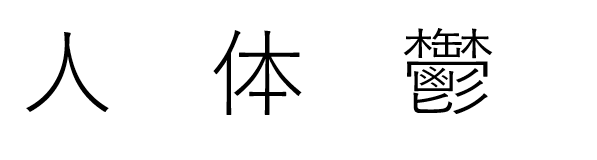
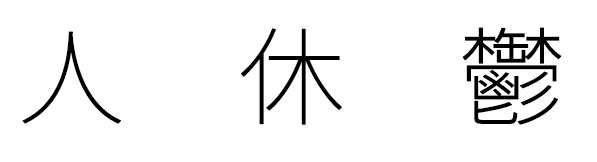
final_corrections

diff --git a/js/hanzi.js b/js/hanzi.js
@@ -10,9 +10,14 @@ function initHanziPie(){
       chartValue: 7,
       color: '#4f46e5',
       samples: [
-        '山 — மலை',
-        '人 — மனிதன்',
-        '木 — மரம்'
+        '山 - மலை',
+'川 - நதி / ஆறு',
+'木 - மரம்',
+'日 - சூரியன் / நாள்',
+'月 - சந்திரன் / மாதம்',
+'人 - மனிதன் / நபர்',
+'口 - வாய் / முகப்பு',
+'犬 - நாய்'
       ],
       detail: 'உருவக் குறியீடு'
     },
@@ -23,9 +28,14 @@ function initHanziPie(){
       chartValue: 4,
       color: '#10b981',
       samples: [
-        '上 — மேலே',
-        '下 — கீழே',
-        '中 — நடு'
+        '上 - மேல்',
+'下 - கீழ்',
+'一 - ஒன்று',
+'二 - இரண்டு',
+'三 - மூன்று',
+'中 - நடு / மையம்',
+'本 - வேர் / புத்தகம்',
+'末 - இறுதி / முடிவு'
       ],
       detail: 'சிந்தனைக் குறியீடு'
     },
@@ -36,9 +46,14 @@ function initHanziPie(){
       chartValue: 9,
       color: '#f59e0b',
       samples: [
-        '日 + 月 = 明',
-        '木 + 木 + 木 = 森',
-        '人 + 言 = 信'
+        '明 - வெளிச்சம்  (சூரியன் + நிலவு)',
+'森 - காடு (மரம் + மரம் + மரம்)',
+'林 - சிறுகாடு (மரம் + மரம்)',
+'炎 - தீப்பொறி  (தீ + தீ)',
+'男 - ஆண் (வயல் + ஆற்றல்)',
+'休 - ஓய்வு மனிதன் + மரம்)',
+'信 - நம்பிக்கை / விசுவாசம் (மனிதன் + சொல்)',
+'好 - விருப்பம் (பெண் + குழந்தை)'
       ],
       detail: 'கூட்டுக் குறியீடு'
     },
@@ -49,9 +64,14 @@ function initHanziPie(){
       chartValue: 76,
       color: '#ef4444',
       samples: [
-        '木 + 交 = 校 (கோ-ko)',
-        '言 + 吾 = 語 (கோ-go)',
-        '氵 + 可 = 河 (க)'
+        '河 - நதி (நீர் + உச்சரிப்பை சுட்டும் கூறு)',
+'校 - பள்ளி (மரம் + உச்சரிப்பை சுட்டும் கூறு)',
+'語 - மொழி/சொல் (பேச்சு + உச்சரிப்பை சுட்டும்)',
+'清 - சுத்தம்/தெளிவு (நீர் + உச்சரிப்பை சுட்டும் கூறு)',
+'海 - கடல் (நீர் + உச்சரிப்பை சுட்டும் கூறு)',
+'橋 - பாலம் (மரம் + உச்சரிப்பை சுட்டும் கூறு)',
+'銀 - வெள்ளி (உலோகம் + உச்சரிப்பை சுட்டும் கூறு)',
+'電 - மின்னல் (மழை + உச்சரிப்பை சுட்டும் கூறு)'
       ],
       detail: 'உச்சரிப்பு-பொருள் குறியீடு'
     },
@@ -62,9 +82,12 @@ function initHanziPie(){
       chartValue: 2,
       color: '#8b5cf6',
       samples: [
-        '楽 — இசை → மகிழ்ச்சி',
-        '長 — நீளம் → தலைவன்',
-        '自 — மூக்கு → தன்/தான்'
+        '楽 - (பொருள் திரிபு: இசை → மகிழ்ச்சி)',
+'長 - (பொருள் திரிபு: நீளம் → தலைவன்)',
+'考 - (பொருள் திரிபு: முதுமை → சிந்தி)',
+'悪 - (பொருள் திரிபு: கெடு → தீமை)',
+'労 - (பொருள் திரிபு: களைப்பு → முயற்சி)',
+'自 - (பொருள் திரிபு: மூக்கு → சுயம்)'
       ],
       detail: 'பொருள் திரிந்த குறியீடு'
     },
@@ -75,9 +98,12 @@ function initHanziPie(){
       chartValue: 2,
       color: '#06b6d4',
       samples: [
-        '来 — தானியம் → வரும்/வருகிற',
-        '我 — ஆயுதம் → நான்/தன்',
-        '七 — வெட்டு → ஏழு'
+        '我 - (உச்சரிப்பு: வ; பொருள்: ஆயுதம் → என்னை)',
+'来 - (உச்சரிப்பு: ரை; பொருள்: தானியம் → வருதல்)',
+'七 - (உச்சரிப்பு: ஷிச்சி; பொருள்: வெட்டு → ஏழு)',
+'豆 - (உச்சரிப்பு: தோ; பொருள்: பாத்திரம் → பயறு)',
+'東 - (உச்சரிப்பு: தோ; பொருள்: மூட்டை → கிழக்கு) ',
+'求 - (உச்சரிப்பு: வ; பொருள்: தோலாடை → தேடு)'
       ],
       detail: 'ஒலிக்கடன் குறியீடு'
     }

diff --git a/pages/hanzi.html b/pages/hanzi.html
@@ -78,7 +78,7 @@
               <p>ஒரு கான்ஜியை எழுதப்பயன்படும் கோடுகளை கீறல்கள் (strokes) எனலாம். இந்த கீறல்கள் அல்லது கோடுகள் கொண்டு கான்ஜியை எழுதுகையில் நாம் ஒரு ஒழுங்கை கடைபிடிக்கவேண்டும் இந்த கோட்டிற்கு பிறகுதான் இந்த கோடு வரும் எனும் புரிதல் இருக்க வேண்டும். பெரும்பாலான கான்ஜிக்கள் 8 கக்கும் மேற்பட்ட கீறல்கள்/கோடுகளைக் கொண்டவை, எனவே நினைவில் கொள்வது சற்று சீரமம்தான் எனினும் “முயற்சி மெய்வருத்த கூலி தரும்”.</p>
 
               <div style="text-align: center; margin:12px 0;">
-                <img src="../assets/doc/denki.gif" alt="hanzi radicals" draggable="false" style="max-width:100%;height:auto;" /><img src="../assets/doc/denki1.png" alt="hanzi radicals" draggable="false" style="max-width:100%;height:auto;" />
+                <img src="../assets/doc/stroke_vs_radicals.gif" alt="hanzi radicals" draggable="false" style="max-width:50%;height:auto;" />
               </div>
 
               <p>மறுபுறம் சிக்கலான கான்ஜிக்களில் இருக்கும் கான்ஜி அல்லது அதன் சுருக்கப்பட்ட வடிவங்களை கூறுகள் (Radicals) அல்லது உருபுகள் (Compunds) என்று சொல்லலாம். என்றாலும் யப்பானியர்கள் இவ்வாறான பல உருபுகள் கொண்ட கான்ஜியிலிருந்து ஒரு உருபை தேர்ந்தெடுத்து அதை கூறுகள் என்று வகைப்படுத்தியுள்ளனர். இது அகராதிகளில் கான்ஜிக்களை வரிசைப்படுத்த பயன்படுகிறது.</p>
@@ -162,22 +162,22 @@
                   <tr>
                     <td style="border:1px solid #ddd;padding:8px;">へん (இடப் பகுதி)</td>
                     <td style="border:1px solid #ddd;padding:8px;"><img src="../assets/doc/radical1-hen.png" alt="radical1-hen" draggable="false" style="display:block;" /></td>
-                    <td style="border:1px solid #ddd;padding:8px;">氵(水) in 海, 扌(手) in 指, 訁(言) in 記</td>
+                    <td style="border:1px solid #ddd;padding:8px;">海-ல் உள்ள 氵(水); 指-ல் உள்ள 扌(手); 記-ல் உள்ள 訁(言)</td>
                   </tr>
                   <tr>
                     <td style="border:1px solid #ddd;padding:8px;">つくり (வலப் பகுதி)</td>
                     <td style="border:1px solid #ddd;padding:8px;"><img src="../assets/doc/radical2-tsukuri.png" alt="radical2-tsukuri" draggable="false" style="display:block;" /></td>
-                    <td style="border:1px solid #ddd;padding:8px;">刂(刀) in 利, 力 in 助, 欠 in 歌</td>
+                    <td style="border:1px solid #ddd;padding:8px;">利-ல் உள்ள 刂(刀); 助-ல் உள்ள 力; 歌-ல் உள்ள 欠</td>
                   </tr>
                   <tr>
                     <td style="border:1px solid #ddd;padding:8px;">かんむり (மேல்பகுதி)</td>
                     <td style="border:1px solid #ddd;padding:8px;"><img src="../assets/doc/radical3-kanmuri.png" alt="radical3-kanmuri" draggable="false" style="display:block;" /></td>
-                    <td style="border:1px solid #ddd;padding:8px;">艹 (艸) in 花, in 雨 in 雪, 穴 in 空</td>
+                    <td style="border:1px solid #ddd;padding:8px;">花-ல் உள்ள 艹(艸); 雪-ல் உள்ள 雨; 空-ல் உள்ள 穴</td>
                   </tr>
                   <tr>
                     <td style="border:1px solid #ddd;padding:8px;">あし (கீழ்ப்பகுதி)</td>
                     <td style="border:1px solid #ddd;padding:8px;"><img src="../assets/doc/radical4-ashi.png" alt="radical4-ashi" draggable="false" style="display:block;" /></td>
-                    <td style="border:1px solid #ddd;padding:8px;">心 in 恋, 灬(火) in 点, 儿 in 免</td>
+                    <td style="border:1px solid #ddd;padding:8px;">恋-ல் உள்ள心; 点-ல் உள்ள灬(火); 免-ல் உள்ள儿</td>
                   </tr>
                   <tr>
                     <td style="border:1px solid #ddd;padding:8px;">かまえ (சூழ்ந்த பகுதி)</td>
@@ -192,17 +192,17 @@
                         <img src="../assets/doc/radical5_7-mongamae.png" alt="radical5_7-mongamae" draggable="false" />
                       </div>
                     </td>
-                    <td style="border:1px solid #ddd;padding:8px;">門 in 開, 囗 in 国, 勹 in 包</td>
+                    <td style="border:1px solid #ddd;padding:8px;">開-ல் உள்ள 門; 国-ல் உள்ள 囗; 包-ல் உள்ள 勹</td>
                   </tr>
                   <tr>
                     <td style="border:1px solid #ddd;padding:8px;">たれ (மேல்தொங்கு பகுதி)</td>
                     <td style="border:1px solid #ddd;padding:8px;"><img src="../assets/doc/radical6-tare.png" alt="radical6-tare" draggable="false" style="display:block;" /></td>
-                    <td style="border:1px solid #ddd;padding:8px;">厂 in 原, 尸 in 局, 广 in 店</td>
+                    <td style="border:1px solid #ddd;padding:8px;">原-ல் உள்ள 厂; 局-ல் உள்ள 尸; 店-ல் உள்ள 广</td>
                   </tr>
                   <tr>
                     <td style="border:1px solid #ddd;padding:8px;">にょう (கீழவளை பகுதி)</td>
                     <td style="border:1px solid #ddd;padding:8px;"><img src="../assets/doc/radical7-nyou.png" alt="radical7-nyou" draggable="false" style="display:block;" /></td>
-                    <td style="border:1px solid #ddd;padding:8px;">⻌(辵) in 近, 走 in 起, 廴 in 建</td>
+                    <td style="border:1px solid #ddd;padding:8px;">近-ல் உள்ள ⻌(辵); 起-ல் உள்ள走; 建-ல் உள்ள廴</td>
                   </tr>
                 </tbody>
               </table>

diff --git a/js/tamil-sounds.js b/js/tamil-sounds.js
@@ -17,7 +17,7 @@ const stages = [
   {
     label: 'தமிழ் எழுத்துகள் ஒரு பார்வை',
     note: `    தமிழ் இலக்கண நூல்களில் எழுத்து என்னும் சொல், மொழியில் வழங்கும் ஒலிகளைக் குறிக்கவும், அவ்வொலிகளுக்குறிய வரிவடிவத்தைக் குறிக்கவும் பயன்படுத்தப்பட்டுள்ளது. அவ்வகையில் 'அ' என்னும் எழுத்து ஒலிவடிவம், வரிவடிவம் இரண்டையும் குறித்து நிற்கின்றது.\n
-    தமிழ் எழுத்துகளை தொல்காப்பியர் பகுத்து ஆய்ந்து விளக்கியிருக்கிறார், தமிழ் மொழிக்கு இலக்கணம் எழுதியவர் என்பதைக்காட்டிலும், மொழியியலாளர் என்ற பெயர் அவருக்குச் சிறப்பாக இருக்கும். தமிழ் நிலப்பரப்பின் பரந்துபட்ட மொழியியல் சிந்தனையின் நீட்சி இவர் எனலாம், அவ்வழியில் உங்களை தமிழின் எழுத்துக்கள் வழியே யப்பானிய மொழியின் அடிப்படை ஒலிகளுக்கு அழைத்துச்செல்வதே இக்கருவியின் நோக்கம். யப்பானிய வரி வடிவங்களை அடுத்து கற்கலாம்.\n
+    தமிழ் எழுத்துகளை தொல்காப்பியர் நன்கு பகுத்து ஆய்ந்து விளக்கியிருக்கிறார். தமிழ் மொழிக்கு இலக்கணம் எழுதியவர் என்பதைக்காட்டிலும், ஒரு மொழியியலாளர் என்ற பெயர் அவருக்கு பொருத்தமாக இருக்கும். தமிழ் நிலப்பரப்பின் பரந்துபட்ட மொழியியல் சிந்தனையின் நீட்சி இவர் எனலாம், அவ்வழியில் உங்களை தமிழின் எழுத்துக்கள் வழியே யப்பானிய மொழியின் அடிப்படை ஒலிகளுக்கு அழைத்துச்செல்வதே இக்கருவியின் நோக்கம். யப்பானிய வரி வடிவங்களை அடுத்தடுத்து கற்கலாம்.\n
     தமிழின் உயிர் 12, மெய் 18 சேர்ந்த 30 எழுத்துகளை முதல் எழுத்து என்கிறோம், உயிரும் மெய்யும் இணைந்து பிறக்கும் 216 எழுத்துகளை உயிர்மெய் என்கிறோம், 'ஃ' எனும் ஆய்தம்/தனியெழுத்து சேர்த்து மொத்த எழுத்துகள் 247 ஆகிறது (12+18+216+1=247). அவற்றைத்தான் இங்கே பார்க்கிறீர்கள்.`,
     summary: 'படிநிலை-1: தமிழின் மொத்த எழுத்துக்கள்.',
   },
@@ -25,19 +25,19 @@ const stages = [
   {
     label: 'நெடில் ஒலிகள்',
     note: `<b>    அ இ உ ஏ ஒ </b>
-    மேல் உள்ள 5 உயிர் எழுத்துகளும் குறில் எனப்படும். இவற்றை உச்சரிக்கும் கால அளவு ஒரு மாத்திரையாகும். மாத்திரை என்பது கை நொடிப்பொழுது அல்லது கண் இமைப்பொழுது எனக் கூறலாம். யப்பானிய மொழியில் மாத்திரையை "மொரா" என்பர்.\n
+    மேல் உள்ள 5 உயிர் எழுத்துகளும் குறில் எனப்படும். இவற்றை உச்சரிக்கும் கால அளவு ஒரு மாத்திரையாகும். "மாத்திரை" என்பது கை நொடிப்பொழுது அல்லது கண் இமைப்பொழுது எனக் கூறலாம். யப்பானிய மொழியில் மாத்திரையை "மொரா" என்பர்.\n
     <b>ஆ ஈ ஊ ஏ ஐ ஓ ஔ</b>
     மேல் உள்ள 7  எழுத்துகளும் நெடில் எனப்படும். இவற்றை உச்சரிக்க இரண்டு மாத்திரை அளவு ஆகும்.\n
     இந்த நெடில்களில்  ஐ, ஔ ஆகிய இரண்டும் மொழியியலில் "கூட்டுயிர் (diphthongs) எனப்படும். இவை 'அய்', 'அவ்' என்றும் எழுதப்படும். பழந்தமிழில் 'அஇ', 'அஉ' என்றும் இவை எழுதப்பட்டன.\n
     இந்த 7 நெடில்களுக்கும் யப்பானிய மொழியில் தனி வரிவடிவம் இல்லை, குறில்களின் வரிவடிவங்களைக் கொண்டே நெடில்களை வரவழைக்கும் எளிமையானதொரு நெடுங்கணக்கு முறையை கையாளுகின்றனர்.\n
-    அதாவது, 'கா' என்பதை 'கஅ' என்றும், 'கை' என்பதை 'கஇ' என்றும் எழுதிப் படிப்பதைப்போன்றது, கால மாற்றத்தில் தமிழும் யப்பானியமும் வெவ்வேறு வழியை பின்பற்றியிருக்கின்றன. இது குறித்து அடுத்து விரிவாகப் பார்க்கலாம்.`,
+    அதாவது, 'கா' என்பதை 'கஅ' என்றும், 'கை' என்பதை 'கஇ' என்றும் எழுதிப் படிப்பதைப்போன்றது, காலப்போக்கில் தமிழும் யப்பானியமும் வெவ்வேறு வழியை தேர்வு செய்துவிட்டன.`,
     summary: 'படிநிலை-2: நெடில்கள் தேவையா?',
   },
 
   {
     label: 'நெடில் ஒலிகள் நீக்கம்',
-    note: `    இப்போது, இந்த அட்டவணையிலிருந்து நெடில்களை முற்றிலும் நீக்கியிருக்கிறோம்.\n
-    கவனத்தில் கொள்ளுங்கள் நாம் நெடில்களின் வரிவடிவத்தைதான் இங்கிருந்து நீக்கியிருக்கிறோம். தமிழ் மொழி போலவே யப்பானிய மொழியிலும் நெடில்கள் இருக்கின்றன அவற்றை எழுதும் முறை சற்று வித்தியாசமானது. இது குறித்து அடுத்து விரிவாக பார்க்கலாம்.\n
+    note: `    நெடில்களை குறில்களைக் கொண்டே எழுதமுடிவதால், இந்த அட்டவணையிலிருந்து நெடில்களை முற்றிலும் நீக்கியிருக்கிறோம்.\n
+    கவனத்தில் கொள்ளுங்கள் நாம் நெடில்களின் வரிவடிவத்தைதான் இங்கிருந்து நீக்கியிருக்கிறோம். தமிழ் மொழி போலவே யப்பானிய மொழியிலும் நெடில்கள் இருக்கின்றன அவற்றை எழுதும் முறை சற்று வித்தியாசமானது. இது குறித்து பின்னர் விரிவாகப் பார்க்கலாம்.\n
     இப்போது, நீங்கள் "அ இ உ எ ஒ" என்பதை மட்டும் ஒரு பாட்டு போல படித்துபாருங்கள், க-வரிசை எல்லாம் தன்னியல்பாக உச்சரிப்பில் வரும். யப்பானிய குழந்தைகள் இப்படிதான் ஆரம்பிக்கின்றனர்.\n
     நிற்க, இவ்விடத்தில் "அ இ உ எ ஒ" எனும் உயிர் குறிலை மட்டும் பாடிப்பாருங்கள், மெய் வரிசைக் குறில்களை அடுத்தடுத்த நிலைகளில் செய்யலாம்.`,
     summary: 'படிநிலை-3: நெடில்கள் நீக்கம்.',

diff --git a/data/kana-data.js b/data/kana-data.js
@@ -205,7 +205,7 @@ window.kanaData = [
 		    "katakana_mnemonicImage": "assets/images/ka2.png",
     "katakana_strokeGif": "assets/stroke-order/ka2.gif",
     "katakana_mnemonicText": "ஹிரகந \"か\" வழி கதகந \"カ\" நினைவில் கொள்க.<br> カ அது \"க\" ஒலிக்கு இணை.",
-        "tamil": "க\"",
+        "tamil": "க",
         "audio": "assets/audio/ka.mp3"
       },
       "dakuon": {